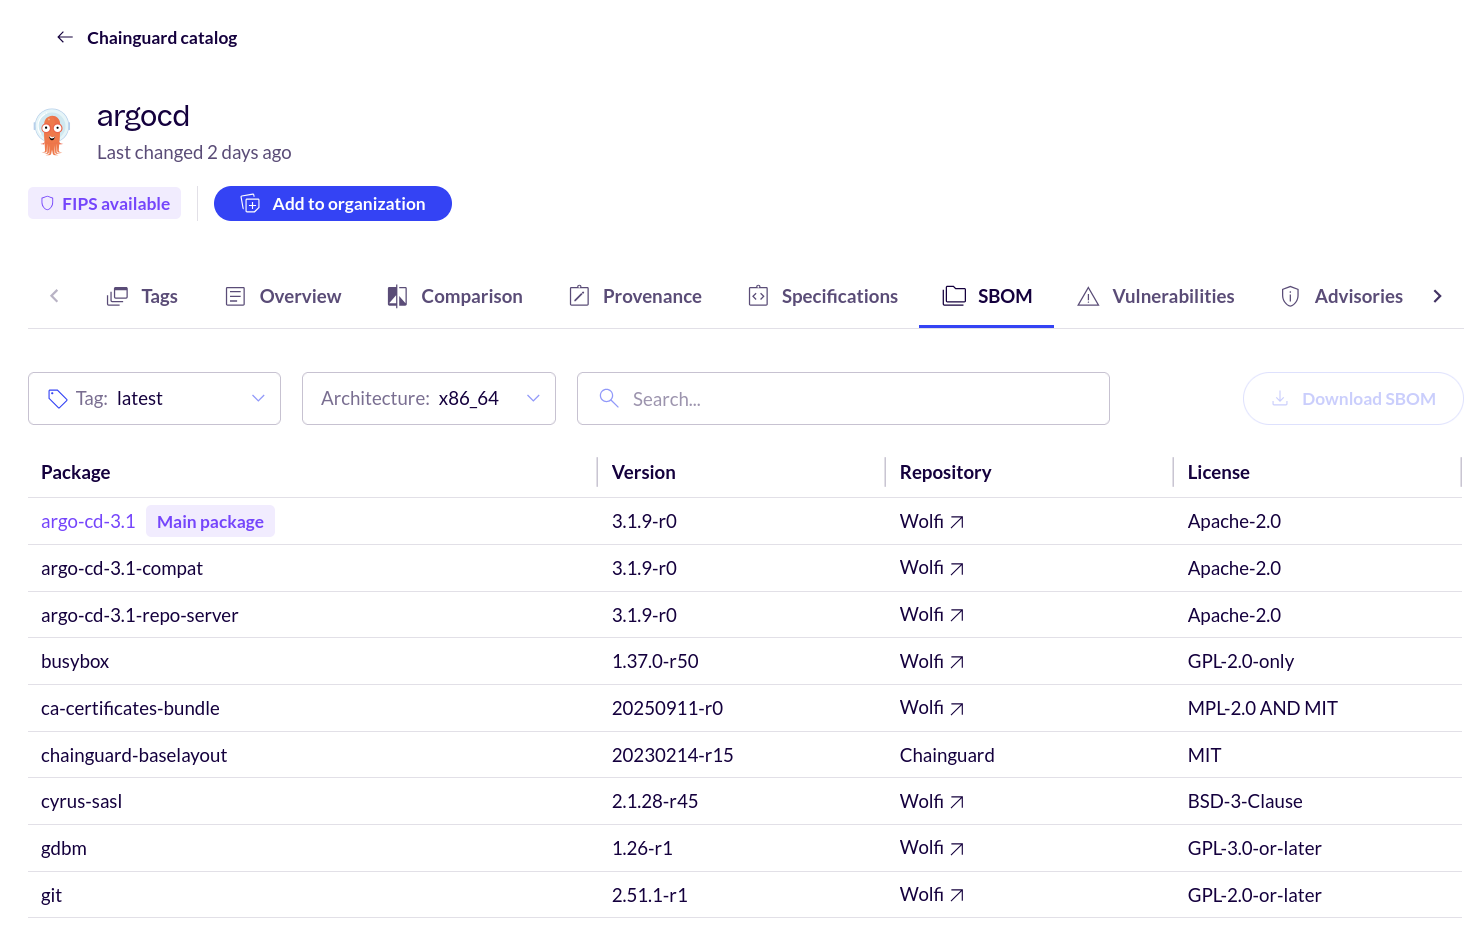
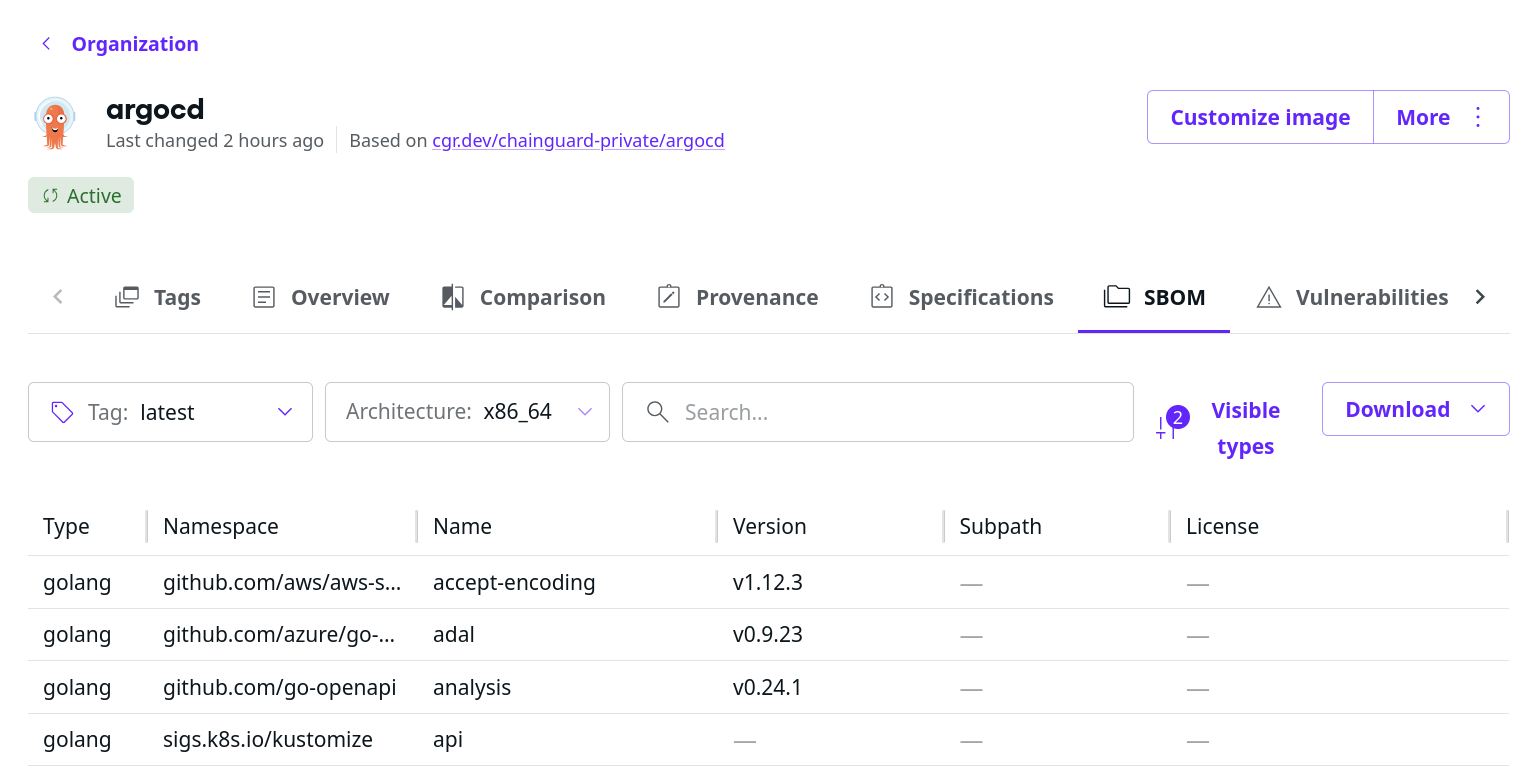
Adding details about retrieving CycloneDX SBOMs in Console (#3042)
## Type of change

**Documentation update**

Update docs for the Console's image SBOM tab to reflect current UI and
functionality.

## What should this PR do?

resolves https://github.com/chainguard-dev/internal/issues/5689

## Why are we making this change?

The Console's SBOM tab has been updated — it now has six columns (adding
Type and Subpath), a Download button with a drop-down to choose between
SPDX and CycloneDX formats, and two drop-down menus instead of one. The
existing docs were out of date and referenced outdated screenshots.

## What are the acceptance criteria?

- The Images Directory doc accurately describes the six-column SBOM
table
- The Retrieve Image SBOMs doc correctly describes how to download SBOMs
in both SPDX and CycloneDX formats from the Console
- Screenshots reflect the current Console UI

## How should this PR be tested?

1. Navigate to the updated pages in the deploy preview
* [Using the Chainguard
Console](https://deploy-preview-3042--ornate-narwhal-088216.netlify.app/chainguard/chainguard-images/how-to-use/images-directory/)
* [How to Retrieve SBOMs and attestations for Chainguard
Containers](https://deploy-preview-3042--ornate-narwhal-088216.netlify.app/chainguard/chainguard-images/how-to-use/retrieve-image-sboms/)
2. Verify the SBOM tab description matches the current Console UI (six
columns, two drop-downs, Download button with format options)
3. Confirm the new screenshot shows the nginx SBOM tab with the Download
drop-down visible
[…]

diff --git a/content/chainguard/chainguard-images/how-to-use/images-directory/index.md b/content/chainguard/chainguard-images/how-to-use/images-directory/index.md
@@ -122,19 +122,21 @@ It also shows the container image's **Raw configuration**, which includes many o
 
 The **SBOM** tab contains a list of packages in the image. Chainguard Containers are built so that everything contained in the image is a package, meaning that this package list gives a complete view of what's in the container image. You won't find anything hidden in the image that isn't listed in its SBOM tab.
 
-<center><img src="imgs-dir-G.png" alt="Screenshot of the argocd container image's 'SBOM' tab, showing nine rows of the latest version's SBOM." style="width:1100px;"></center>
+<center><img src="imgs-dir-G.png" alt="Screenshot of the argocd container image's 'SBOM' tab, showing four rows of the latest version's SBOM." style="width:1100px;"></center>
 <br />
 
-The table listing an image's packages has four columns.
+The table listing an image's packages has six columns.
 
-* **Package**: the name of each package included in the image's SBOM
+* **Type**: the type of package, such as `golang` or `apk`
+* **Namespace**: any packages found in a Chainguard container image are built by Chainguard; this column shows the source repository on which the package is based
+* **Name**: the name of each package included in the image's SBOM
 * **Version**: the version of the listed package
-* **Repository**: every package found in Chainguard Containers is either built and managed by the Chainguard team or sourced from [Wolfi](/open-source/wolfi/overview/). For packages falling into the latter category, this column will include a link to the [Wolfi GitHub repository](https://github.com/wolfi-dev/os) showing the package source
+* **Subpath**: if available, a subpath that points to a specific file or directory within the package
 * **License**: the license under which each package is published
 
-Above the table is a search box you can use to find and filter the packages listed. To the left of this search box is a drop-down menu you can use to select which version of the image you want to find the SBOM for as well as what architecture (either x86_64 or arm64). 
+Above the table is a search box you can use to find and filter the packages listed. To the left of this search box are two drop-down menus you can use to select which version of the image you want to find the SBOM for as well as what architecture (either x86_64 or arm64). 
 
-Finally, to the right of the search box is a button labeled **Download SBOM**. If the image is a Free Container or a container image your organization has access to, you can click this button to download the SBOM (in the SPDX format) to your machine.
+Finally, to the right of the search box is a button labeled **Download**. If the image is a Free Container or a container image your organization has access to, you can click this button to download the SBOM (in either the SPDX or CycloneDX formats) to your machine.
 
 Note that Chainguard began generating SBOMs for its images on November 15, 2023. For this reason, any versions of a given container image that were released before that date will not have any SBOM data to show. 
 

diff --git a/content/chainguard/chainguard-images/how-to-use/retrieve-image-sboms/index.md b/content/chainguard/chainguard-images/how-to-use/retrieve-image-sboms/index.md
@@ -40,7 +40,7 @@ To retrieve an attestation via Cosign, you'll need the following installed on yo
 * **jq**: Follow instructions on the [jq downloads page](https://jqlang.github.io/jq/download/) to set it up.
 
 
-### Retrieve a container image attestation via Cosign
+### Retrieve a container image attestation using Cosign
 
 Cosign includes a `download attestation` command that allows you to retrieve a Chainguard Container's attestation over the command line. Different types of attestations are referenced by their **predicate type**. To authenticate these statements and verify the authenticity of the software producer, you can use [`cosign verify-attestation`](/open-source/sigstore/cosign/how-to-verify-file-signatures-with-cosign/). 
 
@@ -63,13 +63,13 @@ You can include the following flags when retrieving attestations:
 
 ### Retrieve a container image attestation in the Chainguard Console
 
-You can also find container image SBOMs in the [Chainguard Console](https://console.chainguard.dev). After signing in to the Console and clicking either the **Public images** or, if available, **Organization images** you'll be presented with a list of images. Clicking on any of these will take you to the image's landing page. There, you can click on the [**SBOM** tab](/chainguard/chainguard-images/how-to-use/images-directory/#sbom-tab) to find and download the SBOM for the given image. 
+You can also find container image SBOMs in the [Chainguard Console](https://console.chainguard.dev). After signing in to the Console and clicking either the **Public images** or, if available, **Organization images** you'll be presented with a list of images. Click on any of these to navigate that image's landing page. From there, navigate to the [**SBOM** tab](/chainguard/chainguard-images/how-to-use/images-directory/#sbom-tab) to find and download the SBOM for the given image. 
 
-The following example shows the **SBOM** tab for the `postgres` image.
+You can use the drop-down menus above the table to select which version and architecture of the image you want to view. You can also use the search box to find specific packages in the SBOM or use the button to the right of the search box to download the SBOM to your machine.
 
-![Screenshot of the postgres image's "SBOM" tab, showing the first five rows of the latest version's SBOM.](imgs-dir-5.png)
+Clicking **Download** reveals a drop-down menu where you can choose to download the image's SBOM in either the SPDX or CycloneDX SBOM formats. The following example shows the **SBOM** tab for the `nginx` container image, with the **Download** drop-down menu open:
 
-You can use the drop-down menu above the table to select which version and architecture of the image you want to view. You can also use the search box to find specific packages in the SBOM or use the button to the right of the search box to download the SBOM to your machine.
+![Screenshot of the nginx image's "SBOM" tab, showing the Download button and drop-down menu options (SPDX and CyclonedDX) highlighted in a yellow box.](img-dir-5.png)
 
 Check out our guide on [using the Chainguard Containers Directory](/chainguard/chainguard-images/how-to-use/images-directory/) for more details.
 